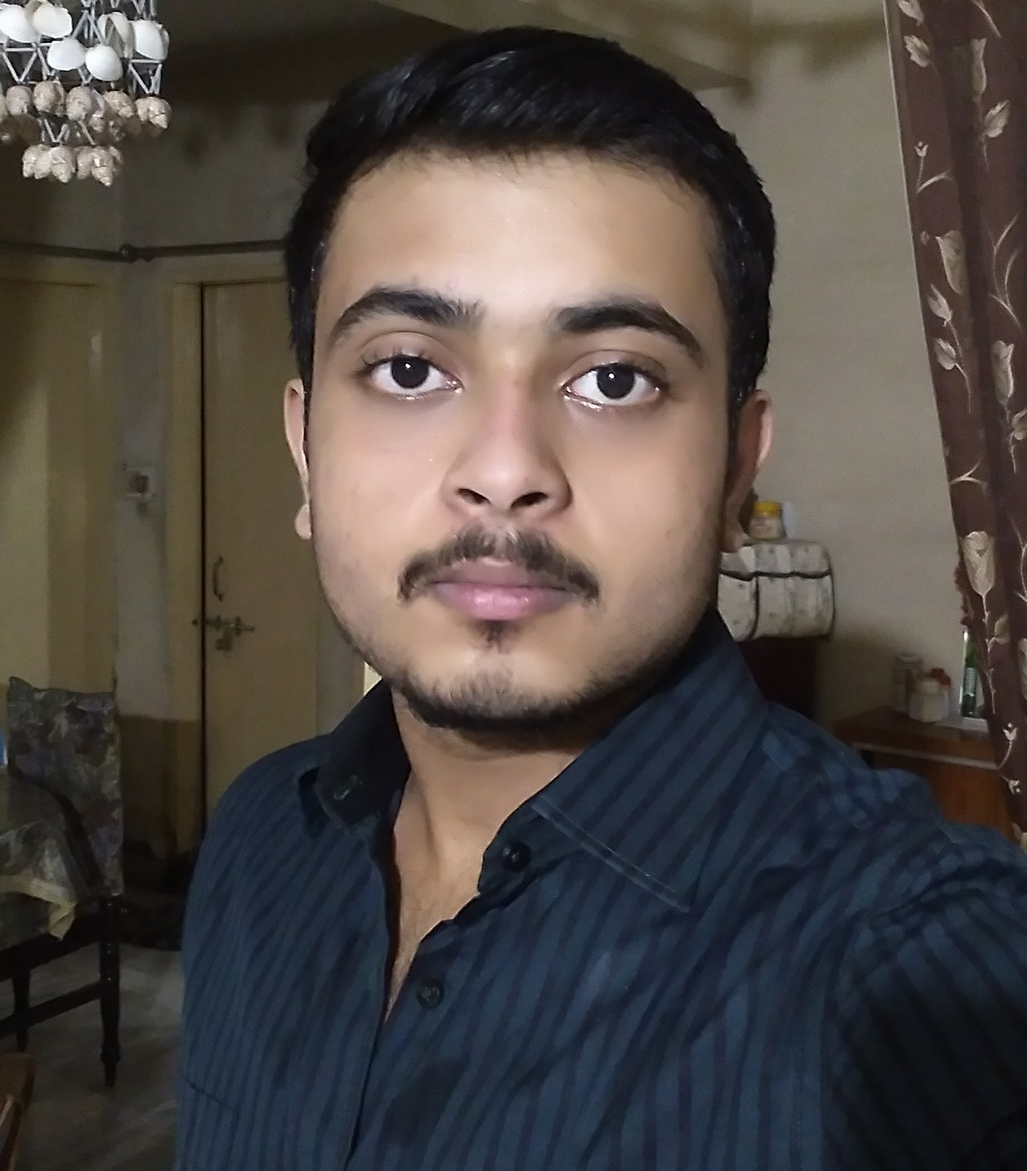
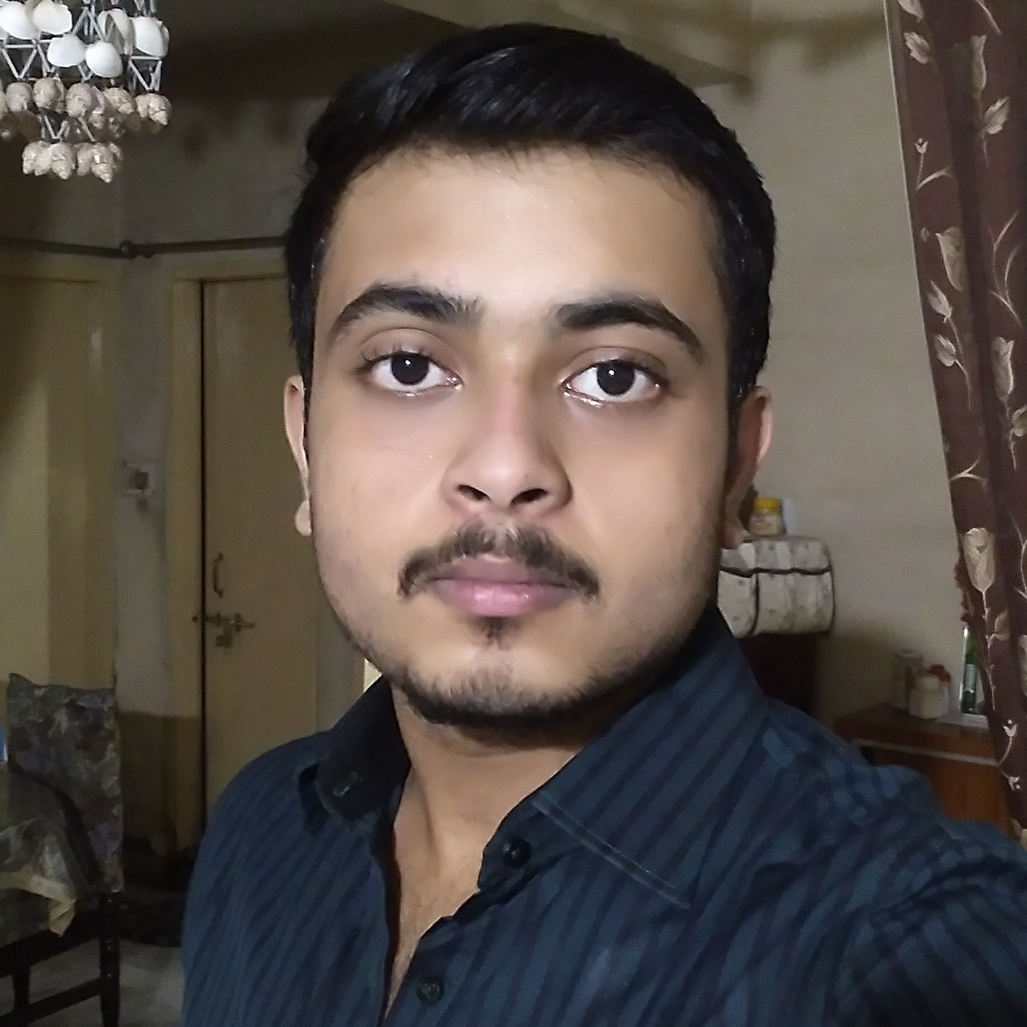
fixed image size problem

diff --git a/index.html b/index.html
@@ -45,7 +45,7 @@
               </div>  
     <!--Personal Info-->
     
-    <div class="container">
+    <div class="container" style="padding-top: 16px;">
                 <div class="jumbotron bg-transparent" style="padding-bottom: 16px;">
                         <div class="row">
                                 <div class="col-md-12 text-center">
@@ -62,14 +62,14 @@
                         <div class="row">
                         <div class="col-md-12">
                     <div class="container">
-                          <div class="textANI three text-center">
+                          <div class="textANI three text-center" style="margin-bottom: 0px; padding-bottom: 0px;">
                             <hover class="repeat" href="javascript:void(0);"> <span>P</span><span>A</span><span>R</span><span>A</span><span>G</span>&nbsp;
                               <span>B</span><span>H</span><span>A</span><span>T</span><span>T</span><span>A</span><span>C</span><span>H</span><span>A</span><span>R</span><span>J</span><span>E</span><span>E</span>
                             </hover></div></div></div></div>
                             <div class="row">
                               <div class="col-md-12">
                           <div class="container">
-                                <div class="textANI three text-center">
+                                <div class="textANI three text-center"style="margin-top: 0px; padding-top: 0px;">
                             <hover class="repeat" href="javascript:void(0);" style="font-size: 3vw;"> 
                               <span>W</span><span>e</span><span>b</span><span>-</span><span>D</span><span>e</span><span>v</span>&nbsp;<span>| </span>
                               <span>A</span><span>n</span><span>d</span><span>r</span><span>o</span><span>i</span><span>d</span>&nbsp;<span>| </span>

diff --git a/assets/css/style.css b/assets/css/style.css
@@ -56,7 +56,7 @@ button{
     text-align: center;
 }
 .thumbnail {
-    width: 30%;
+    width: 40%;
     height: auto;
     border-radius: 20px;
     border: 5px solid white;
